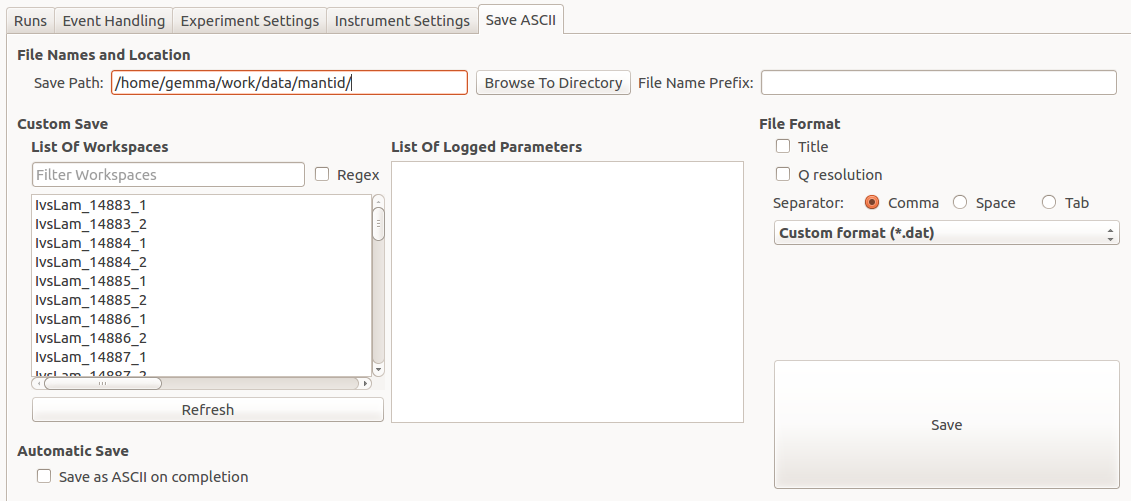
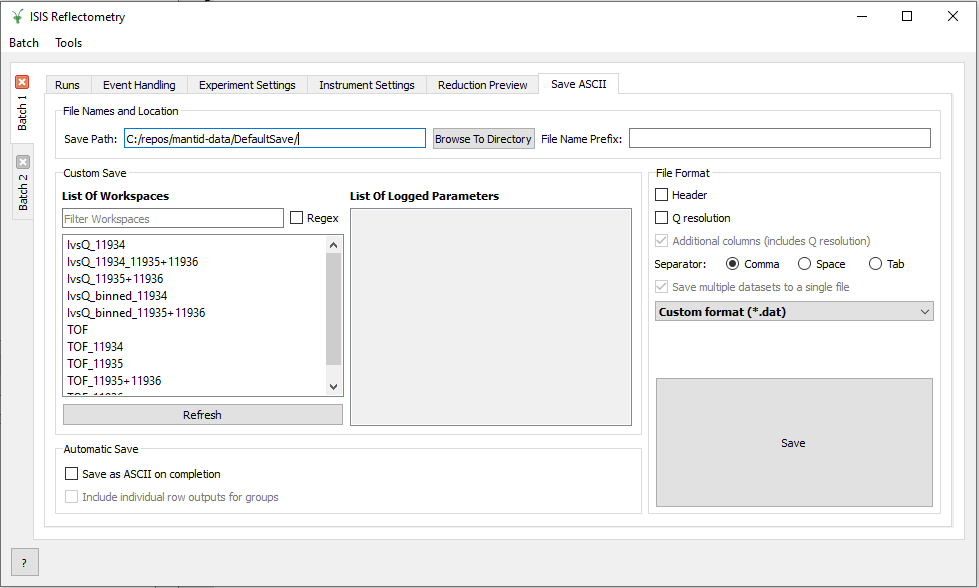
Update user documentation for ISIS Reflectometry GUI Save tab

Changed region(s): [[0.0, 0.0, 1.0, 1.0]]

diff --git a/docs/source/interfaces/reflectometry/ISIS Reflectometry.rst b/docs/source/interfaces/reflectometry/ISIS Reflectometry.rst
@@ -891,7 +891,8 @@ Save ASCII Tab
 
 The **Save ASCII** tab allows for processed workspaces to be saved in specific
 ASCII formats. The filenames are saved in the form [Prefix][Workspace Name].[ext].
-See :ref:`algm-SaveReflectometryAscii` for a description of the formats.
+See :ref:`algm-SaveReflectometryAscii` and :ref:`algm-SaveISISReflectometryORSO`
+for a description of the supported formats.
 
 .. figure:: /images/ISISReflectometryInterface/save_tab.png
   :class: screenshot
@@ -938,7 +939,7 @@ See :ref:`algm-SaveReflectometryAscii` for a description of the formats.
 |                               | to contain multiple parameter notes.                 |
 +-------------------------------+------------------------------------------------------+
 | File format                   | This dialog can save to ANSTO, ILL cosmos, 3-column, |
-|                               | and a customisable format. It doesn't save from      |
+|                               | ORSO and a customisable format. It doesn't save from |
 |                               | the main interface's table, but from workspaces      |
 |                               | loaded into mantid. All algorithms are also          |
 |                               | available as save algorithms from mantid itself.     |
@@ -947,11 +948,21 @@ See :ref:`algm-SaveReflectometryAscii` for a description of the formats.
 |                               | to specify if you want a Header and/or Q Resolution  |
 |                               | column as well as specifying the delimiter.          |
 +-------------------------------+------------------------------------------------------+
+| ORSO Format Options           | When saving in the ORSO format you can specify if you|
+|                               | want a Q Resolution column. You can also request     |
+|                               | additional Lambda, dLambda, Theta and dTheta columns.|
+|                               | If saving multiple workspaces, you can specify if    |
+|                               | they should be saved to a single file or to separate |
+|                               | files.                                               |
++-------------------------------+------------------------------------------------------+
 | Automatic Save                | Automatically save the main output workspace for     |
 |                               | groups in the runs table. Note that the stitched     |
 |                               | group output will be saved if there is one or, for   |
 |                               | a single-row group, the ``IvsQ_binned`` row output   |
 |                               | will be saved instead.                               |
+|                               | Use the ``Include individual row outputs for groups``|
+|                               | option to also save the individual row outputs for a |
+|                               | stitched group.                                      |
 +-------------------------------+------------------------------------------------------+
 
 Troubleshooting
